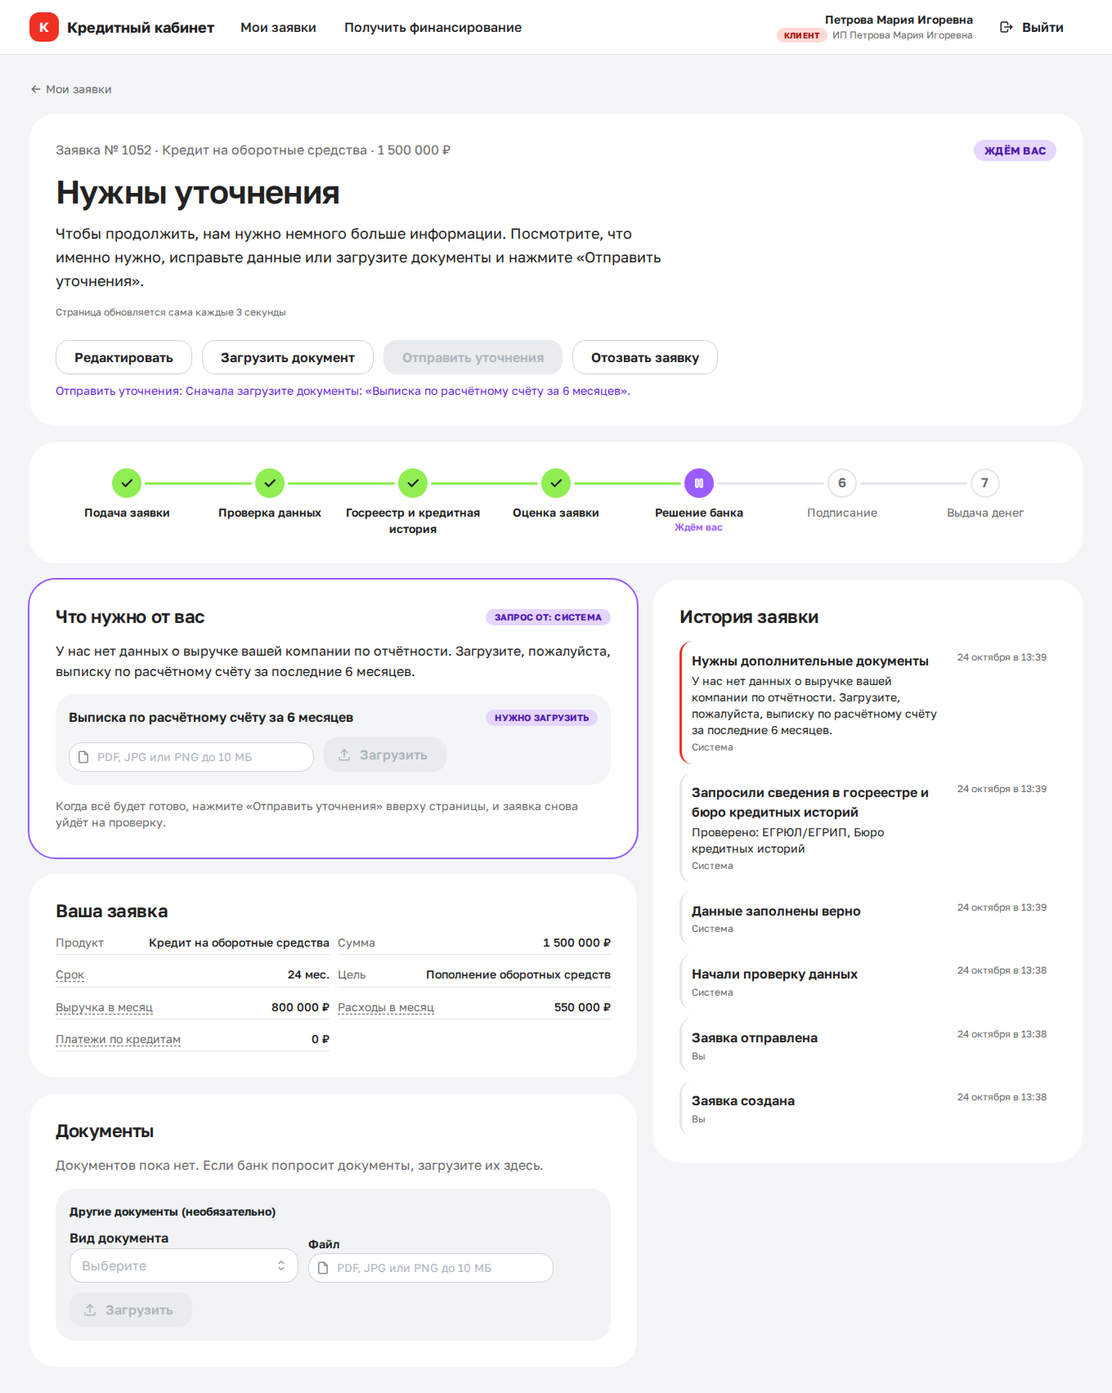
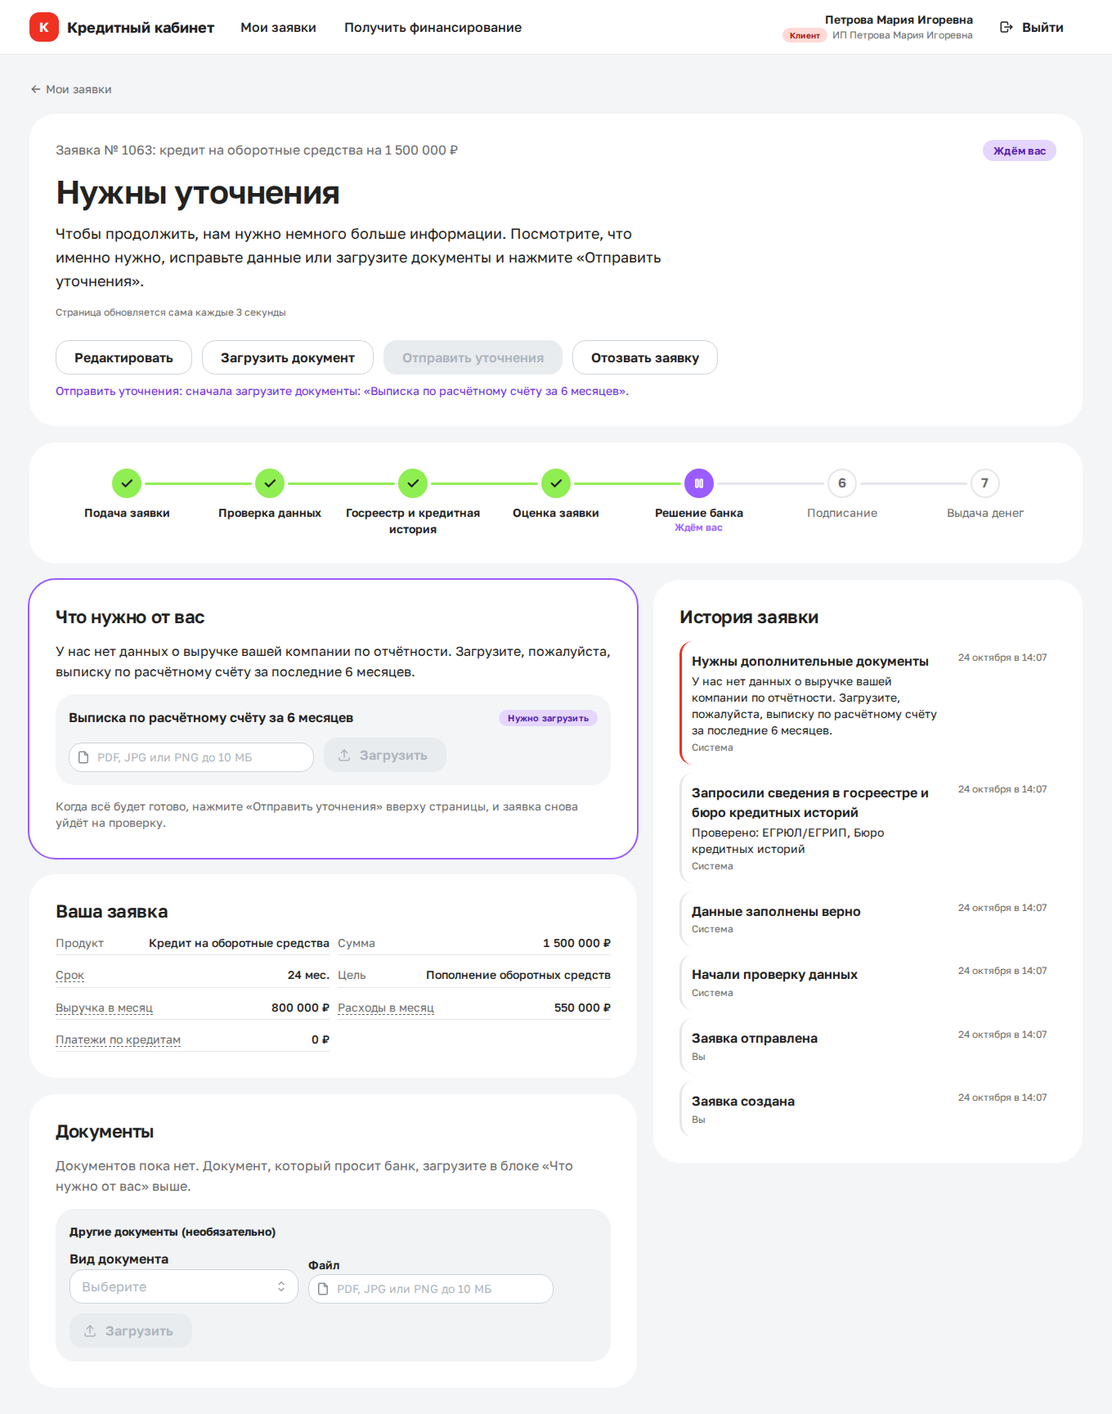
Ревью интерфейса по чек-листу frontend-design: бейджи без капслока, мета-строки без «·», понятный следующий шаг, тексты документов и входа

diff --git a/frontend/src/pages/bank/BankApplicationPage.tsx b/frontend/src/pages/bank/BankApplicationPage.tsx
@@ -54,7 +54,7 @@ function Checks({ application }: { application: BankApplication }) {
             ))}
           </List>
           <Text size="xs" c={COLORS.textSecondary} mt="xs">
-            Попыток: {check.attempts} · {check.duration_ms} мс · {dateTime(check.created_at)}
+            Попыток: {check.attempts}, ответ за {check.duration_ms} мс, {dateTime(check.created_at)}
           </Text>
         </Box>
       ))}
@@ -86,11 +86,11 @@ export function BankApplicationPage() {
         <Stack gap="sm">
           <Group justify="space-between" wrap="wrap">
             <Text c={COLORS.textSecondary}>
-              Заявка № {application.number} · {application.company.name} · {application.product.name}
+              Заявка № {application.number}, {application.company.name}, {application.product.name.toLowerCase()}
             </Text>
             {application.scoring && (
               <Badge size="lg" variant="light" color="gray">
-                <Term id="grade">Грейд</Term> {application.scoring.grade} · {application.scoring.total_score} баллов
+                <Term id="grade">Грейд</Term> {application.scoring.grade}, {application.scoring.total_score} баллов
               </Badge>
             )}
           </Group>
@@ -169,7 +169,7 @@ export function BankApplicationPage() {
                   <Field label="Название" value={application.company.name} />
                   <Field label={<Term id="inn">ИНН</Term>} value={application.company.inn} />
                   <Field label={<Term id="ogrn">ОГРН</Term>} value={application.company.ogrn} />
-                  <Field label={<Term id="okved">ОКВЭД</Term>} value={`${application.company.okved} · ${application.company.industry}`} />
+                  <Field label={<Term id="okved">ОКВЭД</Term>} value={`${application.company.okved}, ${application.company.industry.toLowerCase()}`} />
                   <Field label="Регион" value={application.company.region} />
                   <Field label="Регистрация" value={date(application.company.registration_date)} />
                   <Field label="Выручка за год" value={application.company.annual_revenue === null ? "нет отчётности" : money(application.company.annual_revenue)} />
@@ -185,7 +185,7 @@ export function BankApplicationPage() {
                   {application.documents.map((document) => (
                     <Group key={document.id} justify="space-between">
                       <Text size="sm">
-                        <b>{document.kind_label}</b> · {document.filename} · {document.uploaded_by}
+                        <b>{document.kind_label}</b>: {document.filename}, загрузил: {document.uploaded_by.toLowerCase()}
                       </Text>
                       <Button
                         variant="subtle"
@@ -215,7 +215,7 @@ export function BankApplicationPage() {
                             </Text>
                             <Text size="xs" c={COLORS.textSecondary}>
                               {event.actor}
-                              {event.actor_name ? ` · ${event.actor_name}` : ""} · {event.from_status ?? "—"} → {event.to_status}
+                              {event.actor_name ? `, ${event.actor_name}` : ""}
                             </Text>
                           </Stack>
                           <Text size="xs" c={COLORS.textSecondary} style={{ whiteSpace: "nowrap" }}>

diff --git a/frontend/src/components/application/DocumentsBlock.tsx b/frontend/src/components/application/DocumentsBlock.tsx
@@ -71,12 +71,12 @@ export function UploadForm({ application, fixedKind, compact }: { application: A
 }
 
 export function DocumentsBlock({ application }: { application: Application }) {
+  // Если банк попросил конкретные документы, загрузка — в блоке «Что нужно от вас»; здесь — только для прочих файлов
+  const requestedDocuments = (application.info_request?.documents.length ?? 0) > 0;
   const documents = useQuery({
     queryKey: ["documents", application.id, application.documents_count],
     queryFn: () => call(api.GET("/api/v1/applications/{application_id}/documents", { params: { path: { application_id: application.id } } })),
   });
-  // Если банк попросил конкретные документы, загрузка — в блоке «Что нужно от вас»; здесь — только для прочих файлов
-  const requestedDocuments = (application.info_request?.documents.length ?? 0) > 0;
   const canUpload = application.available_actions.some((action) => action.code === "upload_document" && action.enabled);
 
   return (
@@ -86,7 +86,11 @@ export function DocumentsBlock({ application }: { application: Application }) {
         {documents.isLoading && <LoadingState />}
         {documents.isError && <ErrorState error={documents.error} onRetry={() => void documents.refetch()} />}
         {documents.data && documents.data.length === 0 && (
-          <Text c={COLORS.textSecondary}>Документов пока нет.{canUpload ? " Если банк попросит документы, загрузите их здесь." : ""}</Text>
+          <Text c={COLORS.textSecondary}>
+            Документов пока нет.
+            {canUpload && !requestedDocuments && " Если банк попросит документы, загрузите их здесь."}
+            {requestedDocuments && " Документ, который просит банк, загрузите в блоке «Что нужно от вас» выше."}
+          </Text>
         )}
         {documents.data?.map((document) => (
           <Group key={document.id} justify="space-between" wrap="nowrap">
@@ -97,7 +101,7 @@ export function DocumentsBlock({ application }: { application: Application }) {
               <Stack gap={0}>
                 <Text fw={500}>{document.kind_label}</Text>
                 <Text size="xs" c={COLORS.textSecondary}>
-                  {document.filename} · {document.uploaded_by} · {dateTime(document.created_at)}
+                  {document.filename}, загрузил: {document.uploaded_by.toLowerCase()}, {dateTime(document.created_at)}
                 </Text>
               </Stack>
             </Group>

diff --git a/frontend/src/texts/demoAccounts.ts b/frontend/src/texts/demoAccounts.ts
@@ -3,11 +3,11 @@
  * Пароль каждой — <логин>123.
  */
 export const DEMO_ACCOUNTS = [
-  { login: "client_good", title: "Сильный заёмщик", scenario: "Одобрение на запрошенных условиях → подписание → выдача" },
-  { login: "client_medium", title: "Высокая нагрузка", scenario: "Банк предлагает изменённые условия (встречное предложение)" },
-  { login: "client_border", title: "Пограничный случай", scenario: "Заявку рассматривает кредитный специалист" },
-  { login: "client_bad", title: "Проблемная компания", scenario: "Отказ с понятной причиной" },
-  { login: "client_info", title: "Нет отчётности", scenario: "Банк просит выписку → загрузка → предложение" },
-  { login: "client_timeout", title: "Сбой бюро", scenario: "Бюро кредитных историй не отвечает → специалист" },
-  { login: "employee", title: "Сотрудник банка", scenario: "Очередь заявок, скоринг, решения, статистика" },
+  { login: "client_good", title: "Сильный заёмщик", scenario: "Банк одобрит кредит как просили, дальше подписание и выдача" },
+  { login: "client_medium", title: "Высокая нагрузка", scenario: "Банк предложит меньшую сумму и объяснит почему" },
+  { login: "client_border", title: "Пограничный случай", scenario: "Решение примет кредитный специалист" },
+  { login: "client_bad", title: "Проблемная компания", scenario: "Отказ, причина видна сразу" },
+  { login: "client_info", title: "Нет отчётности", scenario: "Банк попросит выписку по счёту, после неё даст предложение" },
+  { login: "client_timeout", title: "Сбой бюро", scenario: "Бюро кредитных историй не отвечает, заявку решает специалист" },
+  { login: "employee", title: "Сотрудник банка", scenario: "Очередь заявок, оценка заявки, решения и статистика" },
 ] as const;

diff --git a/frontend/src/pages/client/HomePage.tsx b/frontend/src/pages/client/HomePage.tsx
@@ -14,8 +14,12 @@ const STATE_COLOR: Record<string, string> = { current: "brand", action: "violet"
 
 /** Следующий шаг для клиента: подписи доступных действий из API, иначе — пояснение статуса */
 function nextStep(application: Application): { text: string; isAction: boolean } {
-  const actions = application.available_actions.filter((action) => action.enabled && action.code !== "upload_document" && action.code !== "cancel");
-  if (actions.length > 0) return { text: actions.map((action) => action.label).join(" или "), isAction: true };
+  // «Редактировать», «Загрузить документ» и «Отозвать» — не следующий шаг, а возможности; показываем главное действие
+  const actions = application.available_actions.filter((action) => action.enabled && !["edit", "upload_document", "cancel"].includes(action.code));
+  if (actions.length > 0) {
+    const labels = actions.map((action, index) => (index === 0 ? action.label : action.label.charAt(0).toLowerCase() + action.label.slice(1)));
+    return { text: labels.join(" или "), isAction: true };
+  }
   return { text: application.status_description, isAction: false };
 }
 
@@ -34,7 +38,7 @@ function ApplicationRow({ application }: { application: Application }) {
       <Stack gap={8}>
         <Group justify="space-between" wrap="wrap" gap="xs">
           <Text fw={600}>
-            № {application.number} · {application.product.name}
+            {application.product.name}, заявка № {application.number}
           </Text>
           <Badge
             color={step ? (STATE_COLOR[step.state] ?? "gray") : application.status === "ISSUED" ? "lime" : "gray"}
@@ -45,7 +49,7 @@ function ApplicationRow({ application }: { application: Application }) {
           </Badge>
         </Group>
         <Text size="sm" c={COLORS.textSecondary} className="num">
-          {money(application.amount)} · {months(application.term_months)} · обновлена {dateTime(application.updated_at)}
+          {money(application.amount)} на {months(application.term_months)}, обновлена {dateTime(application.updated_at)}
         </Text>
         <Text size="sm">
           <Text span fw={600} c={next.isAction ? COLORS.attention : COLORS.textSecondary}>

diff --git a/frontend/src/pages/client/ApplicationFormPage.tsx b/frontend/src/pages/client/ApplicationFormPage.tsx
@@ -233,7 +233,7 @@ export function ApplicationFormPage() {
       <Stack gap={4}>
         <Title order={1}>{isNeedsInfo ? "Уточнение анкеты" : "Заявка на кредит"}</Title>
         <Text c={COLORS.textSecondary} size="lg">
-          {application ? `Заявка № ${application.number} · черновик сохраняется автоматически при переходе между шагами` : "Четыре коротких шага. Черновик сохраняется, можно вернуться позже."}
+          {application ? `Заявка № ${application.number}. Черновик сохраняется сам, когда вы переходите к следующему шагу` : "Четыре коротких шага. Черновик сохраняется, можно вернуться позже."}
         </Text>
       </Stack>
 

diff --git a/frontend/src/theme.ts b/frontend/src/theme.ts
@@ -66,7 +66,8 @@ export const theme = createTheme({
     Select: { defaultProps: { radius: "md", size: "md" } },
     Textarea: { defaultProps: { radius: "md", size: "md" } },
     PasswordInput: { defaultProps: { radius: "md", size: "md" } },
-    Badge: { defaultProps: { radius: "md" } },
+    // Бейджи обычным регистром: капслок хуже читается и выглядит шаблонно
+    Badge: { defaultProps: { radius: "md" }, styles: { root: { textTransform: "none", fontWeight: 600 } } },
     Tooltip: { defaultProps: { multiline: true, w: 280, withArrow: true, events: { hover: true, focus: true, touch: true } } },
   },
 });

diff --git a/frontend/src/pages/client/ApplicationPage.tsx b/frontend/src/pages/client/ApplicationPage.tsx
@@ -106,7 +106,7 @@ export function ApplicationPage() {
         <Stack gap="md">
           <Group justify="space-between" align="flex-start" wrap="wrap">
             <Text c={COLORS.textSecondary}>
-              Заявка № {application.number} · {application.product.name} · {money(application.amount)}
+              Заявка № {application.number}: {application.product.name.toLowerCase()} на {money(application.amount)}
             </Text>
             {state && (
               <Badge size="lg" color={STATE_COLOR[state.state] ?? "gray"} variant="light" c={state.state === "done" ? COLORS.positiveText : undefined} data-testid="state-badge">

diff --git a/frontend/src/pages/LoginPage.tsx b/frontend/src/pages/LoginPage.tsx
@@ -121,8 +121,8 @@ export function LoginPage() {
                           {account.scenario}
                         </Text>
                       </Stack>
-                      <Text size="xs" ff="monospace" c={COLORS.accent} style={{ whiteSpace: "nowrap" }}>
-                        {busy === account.login ? "входим…" : account.login}
+                      <Text size="xs" c={COLORS.textSecondary} style={{ whiteSpace: "nowrap" }}>
+                        {busy === account.login ? "Входим…" : account.login}
                       </Text>
                     </Group>
                   </UnstyledButton>

diff --git a/frontend/src/pages/bank/QueuePage.tsx b/frontend/src/pages/bank/QueuePage.tsx
@@ -159,7 +159,7 @@ export function QueuePage() {
                       <Table.Td>
                         {item.grade ? (
                           <Badge color={GRADE_COLOR[item.grade] ?? "gray"} variant="light" styles={BADGE_NO_TRUNCATE}>
-                            {item.grade} · {item.score}
+                            {item.grade}, {item.score} б.
                           </Badge>
                         ) : (
                           <Text size="sm" c={COLORS.textSecondary}>

diff --git a/frontend/src/components/application/ActionBar.tsx b/frontend/src/components/application/ActionBar.tsx
@@ -76,7 +76,7 @@ export function ActionBar({ application }: { application: Application }) {
           !action.enabled &&
           action.disabled_reason && (
             <Text key={`${action.code}-reason`} size="sm" c="violet.7" mt="xs">
-              {action.label}: {action.disabled_reason}
+              {action.label}: {action.disabled_reason.charAt(0).toLowerCase() + action.disabled_reason.slice(1)}
             </Text>
           ),
       )}

diff --git a/frontend/src/components/application/InfoRequestPanel.tsx b/frontend/src/components/application/InfoRequestPanel.tsx
@@ -17,9 +17,6 @@ export function InfoRequestPanel({ application }: { application: Application }) 
       <Stack gap="md">
         <Group justify="space-between">
           <Title order={3}>Что нужно от вас</Title>
-          <Badge color="violet" variant="light">
-            Запрос от: {request.created_by}
-          </Badge>
         </Group>
         <Text>{request.comment}</Text>
 

diff --git a/docs/PROGRESS.md b/docs/PROGRESS.md
@@ -248,3 +248,21 @@
 - «Действует до» — только у действующего предложения; у продукта с одной целью цель подставляется сама;
   событие «Уточнения отправлены в банк» вместо «Вы отправили…» (видно и сотруднику); кнопка в диалоге отказа заметнее.
 Тесты после исправлений: бэкенд 183, интерфейс 12 — зелёные.
+
+### Ревью интерфейса по чек-листу frontend-design (готово)
+Прошёл все экраны по скриншотам. Искал признаки шаблонного интерфейса и тексты, непонятные предпринимателю без
+банковского опыта. Цвета, шрифты, формы карточек и раскладку из Figma и `docs/design` не менял. Нумерацию шагов анкеты
+и подбора оставил: там действительно последовательность. Что исправлено:
+- бейджи статусов пишутся обычным регистром, а не капслоком (`theme.ts`);
+- на экране входа логины демо-учёток показаны обычным мелким текстом, без моноширинного шрифта; описания сценариев
+  переписаны простыми словами, без стрелок (`texts/demoAccounts.ts`);
+- в мета-строках убран разделитель «·»: «1 500 000 ₽ на 24 мес., обновлена…», «Попыток: 1, ответ за 120 мс…»;
+- в шапках заявок номер и продукт читаются как фраза: «Заявка № 1063: кредит на оборотные средства на 1 500 000 ₽»;
+- на главной «Ваш следующий шаг» больше не предлагает «Редактировать» или «Отозвать заявку», только главное действие;
+  вторая подпись пишется со строчной буквы («Принять предложение или отказаться от предложения»);
+- в истории заявки у сотрудника убраны технические коды статусов (`scoring → decided`), осталось кто и когда;
+- убран бейдж «Запрос от: Система» в блоке «Что нужно от вас»: клиенту он ничего не говорит;
+- в блоке «Документы» больше нет противоречия «загрузите здесь» рядом с отдельной формой запроса: если банк просит
+  документ, текст отправляет в блок «Что нужно от вас»;
+- причина неактивной кнопки после двоеточия пишется со строчной буквы.
+Тесты: интерфейс 12, бэкенд 183, все зелёные. Скриншоты в `docs/screenshots/` пересняты.
